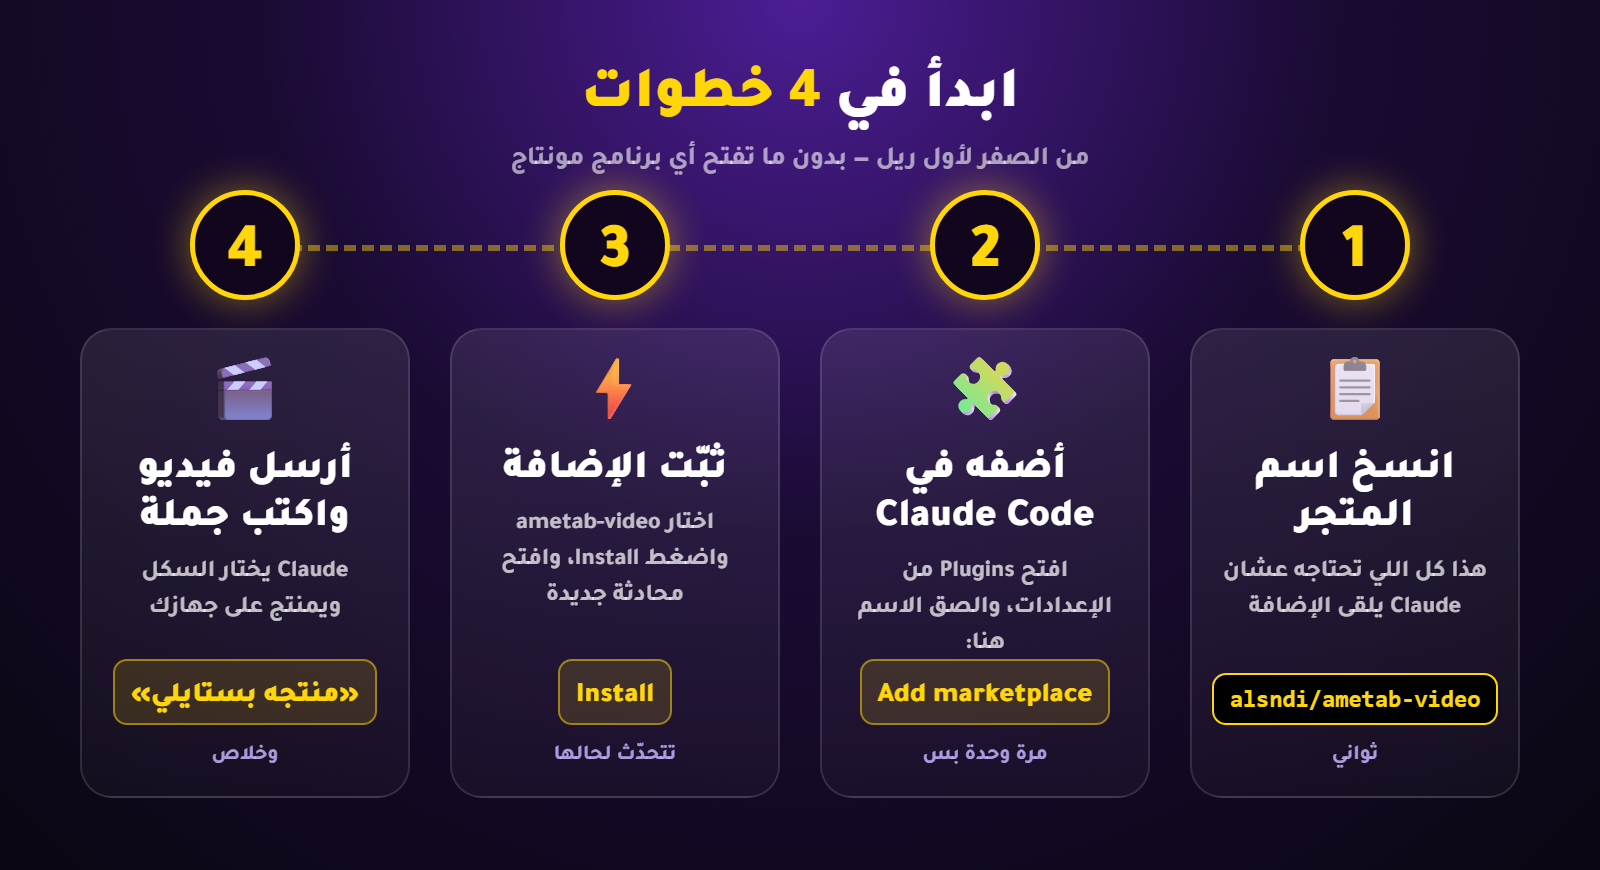
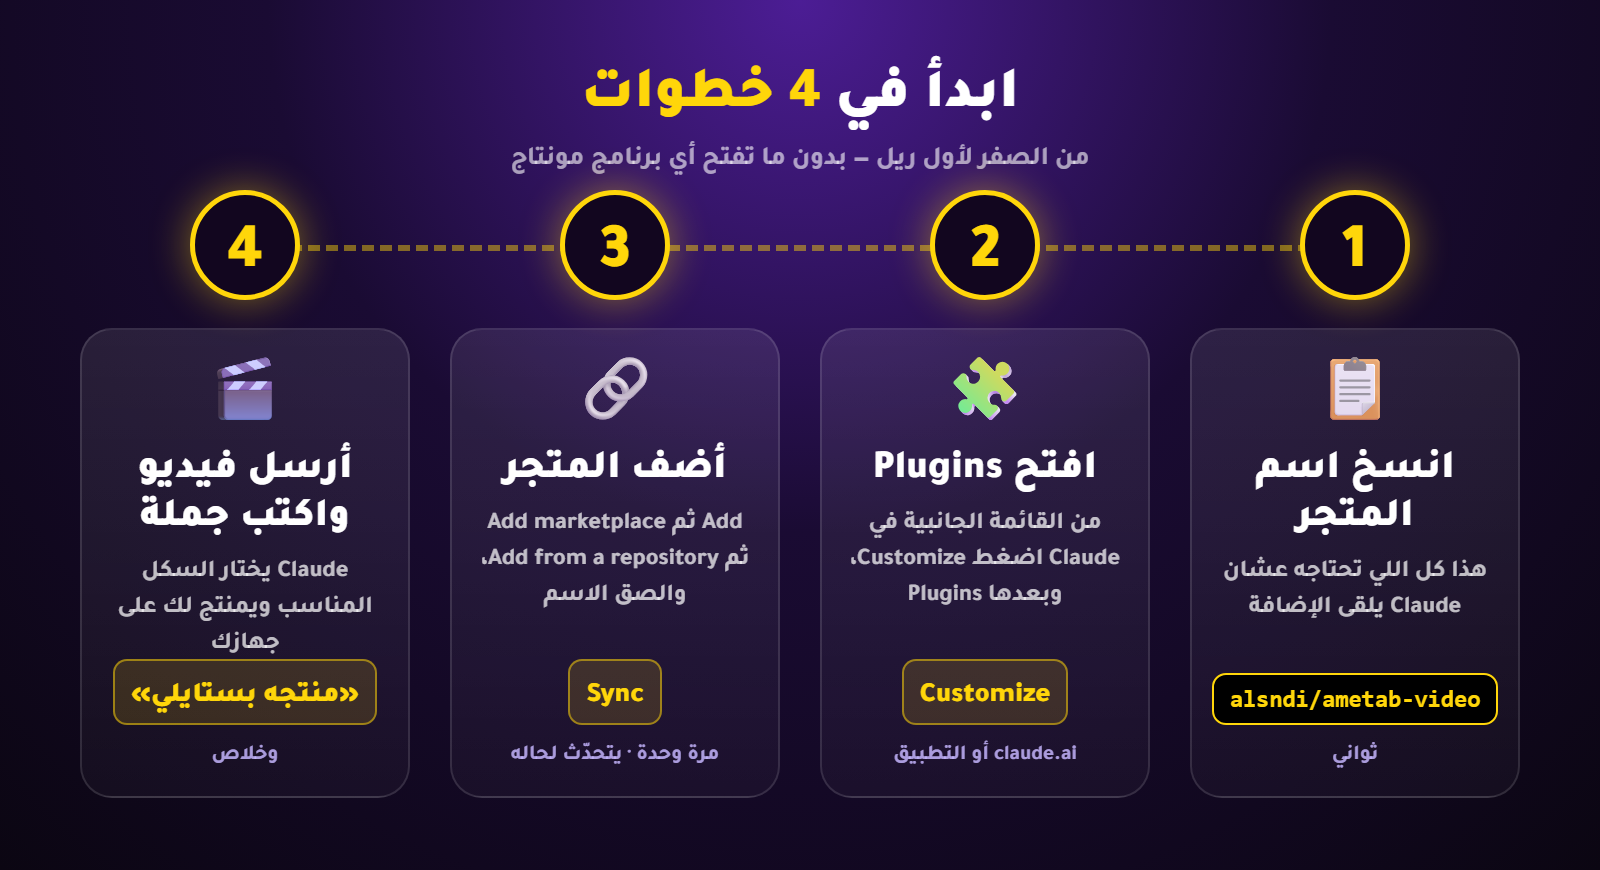
صفحة العرض: صور التثبيت من شاشات Claude الحقيقية، وتحديث الخطوات حسب الطريقة الصحيحة

diff --git a/README.md b/README.md
@@ -6,7 +6,7 @@
 
 ## ⚡ ابدأ في 4 خطوات
 
-<p align="center"><img src="assets/steps.png" alt="ابدأ في 4 خطوات: انسخ اسم المتجر، أضفه في Claude Code، ثبّت الإضافة، أرسل فيديو" width="100%"></p>
+<p align="center"><img src="assets/steps.png" alt="ابدأ في 4 خطوات: انسخ اسم المتجر، افتح Plugins، أضف المتجر، أرسل فيديو" width="100%"></p>
 
 **1. انسخ اسم المتجر.** زر النسخ موجود على طرف المربع:
 
@@ -14,11 +14,34 @@
 alsndi/ametab-video
 ```
 
-**2. أضفه في Claude Code.** افتح الإعدادات، وبعدها **Plugins**، واضغط **Add marketplace**، والصق الاسم.
+**2. افتح Plugins.** من القائمة الجانبية في Claude (claude.ai أو التطبيق)، اضغط **Customize** وبعدها **Plugins**.
 
-**3. ثبّت الإضافة.** بتطلع لك `ametab-video` في القائمة. اضغط **Install**، وبعدها افتح محادثة جديدة.
+**3. أضف المتجر.** اضغط **Add**، وبعدها **Add marketplace**، واختار **Add from a repository**. الصق الاسم، وخل **Sync automatically** شغّال عشان الإضافة تتحدّث لحالها، واضغط **Sync**. ولو طلعت لك `ametab-video` مع زر تثبيت، ثبّتها.
 
-**4. جرّبها.** أرسل فيديو تتكلم فيه، واكتب: «منتجه بستايلي، واللون أخضر». Claude يختار السكل المناسب، ويطلّع لك الريل على جهازك.
+**4. جرّبها.** افتح محادثة جديدة في **Claude Code**، وأرسل فيديو تتكلم فيه، واكتب: «منتجه بستايلي، واللون أخضر». Claude يختار السكل المناسب، ويطلّع لك الريل على جهازك.
+
+<details>
+<summary><b>شوف الخطوات بالصور</b> (من شاشات Claude الحقيقية)</summary>
+
+<br>
+
+**① Customize و② Plugins**
+
+<img src="assets/install_1.jpg" width="640" alt="القائمة الجانبية: Customize، وبعدها تبويب Plugins">
+
+**③ Add و④ Add marketplace**
+
+<img src="assets/install_2.jpg" width="640" alt="زر Add، وبعدها Add marketplace">
+
+**⑤ Add from a repository**
+
+<img src="assets/install_3.jpg" width="520" alt="نافذة Add marketplace: اختار Add from a repository">
+
+**⑥ الصق الاسم و⑦ Sync**
+
+<img src="assets/install_4.jpg" width="520" alt="الصق alsndi/ametab-video واضغط Sync">
+
+</details>
 
 <details>
 <summary><b>تحب التيرمنال؟</b> أمرين بس</summary>
